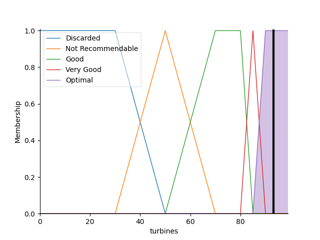
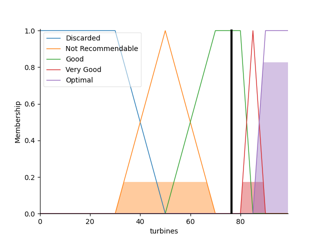
Turbines Fuzzy Inference System V3.5. Density Calculation Added Membership functions readjusted

Changed region(s): [[0.7188, 0.1167, 0.9062, 0.9042], [0.3438, 0.7583, 0.6875, 0.9042]]

diff --git a/Fuzzy_System/membership_functions.py b/Fuzzy_System/membership_functions.py
@@ -8,20 +8,16 @@ import skfuzzy as fuzz
 
 #                                                                INPUTS
 #   Salinity       (0, 40)
-salinity['Low'] = fuzz.trapmf(salinity.universe, [0, 0, 26, 33])
-salinity['Medium'] = fuzz.trapmf(salinity.universe, [26, 33, 34, 35])
-salinity['High'] = fuzz.trapmf(salinity.universe, [34, 35, 40, 40])
-
-salinity.view()
+salinity['Low'] = fuzz.trapmf(salinity.universe, [0, 0, 20, 30])
+salinity['Medium'] = fuzz.trapmf(salinity.universe, [20, 30, 100, 150])
+salinity['High'] = fuzz.trapmf(salinity.universe, [100, 150, 400, 400])
 
 #   Temperature     (-5, 40, 0.1).round(1)
 temperature['Very Low'] = fuzz.trapmf(temperature.universe, [-5, -5, 0, 0])
 temperature['Low'] = fuzz.trapmf(temperature.universe, [-5, 0, 7, 15])
-temperature['Medium'] = fuzz.trapmf(temperature.universe, [7, 15, 23, 27])
-temperature['High'] = fuzz.trimf(temperature.universe, [23, 27, 35])
-temperature['Very High'] = fuzz.trapmf(temperature.universe, [27, 35, 40, 40])
-
-temperature.view()
+temperature['Medium'] = fuzz.trapmf(temperature.universe, [7, 15, 30, 35])
+temperature['High'] = fuzz.trimf(temperature.universe, [30, 35, 37])
+temperature['Very High'] = fuzz.trapmf(temperature.universe, [35, 37, 40, 40])
 
 #   currents     (0, 300)
 currents['Very Low'] = fuzz.trapmf(currents.universe, [0, 0, 50, 100])
@@ -29,23 +25,17 @@ currents['Low'] = fuzz.trapmf(currents.universe, [50, 100, 160, 180])
 currents['Medium'] = fuzz.trimf(currents.universe, [160, 180, 220])
 currents['High'] = fuzz.trapmf(currents.universe, [180, 220, 300, 300])
 
-currents.view()
-
 #   viscosity     (0, 2, 0.01)
 viscosity['Very Low'] = fuzz.trapmf(viscosity.universe, [0, 0.0, 0.4, 0.70])
 viscosity['Low'] = fuzz.trapmf(viscosity.universe, [0.4, 0.7, 0.85, 1.10])
 viscosity['Medium'] = fuzz.trapmf(viscosity.universe, [0.85, 1.10, 1.55, 1.90])
 viscosity['High'] = fuzz.trapmf(viscosity.universe, [1.55, 1.9, 2, 2])
 
-viscosity.view()
-
 #   density     (900, 1100)
 density['Very Low'] = fuzz.trapmf(density.universe, [900, 900, 925, 950])
-density['Low'] = fuzz.trimf(density.universe, [925, 950, 975])
-density['Medium'] = fuzz.trapmf(density.universe, [950, 975, 1000, 1050])
-density['High'] = fuzz.trapmf(density.universe, [1000, 1050, 1100, 1100])
-
-density.view()
+density['Low'] = fuzz.trimf(density.universe, [925, 1000, 1030])
+density['Medium'] = fuzz.trapmf(density.universe, [1000, 1030, 1040, 1050])
+density['High'] = fuzz.trapmf(density.universe, [1040, 1050, 1100, 1100])
 
 #   depth     (0, 8000)
 depth['Very Low'] = fuzz.trapmf(depth.universe, [0, 0, 3, 5])
@@ -53,15 +43,11 @@ depth['Low'] = fuzz.trimf(depth.universe, [3, 5, 10])
 depth['Medium'] = fuzz.trapmf(depth.universe, [5, 10, 500, 1000])
 depth['High'] = fuzz.trapmf(depth.universe, [500, 1000, 8000, 8000])
 
-depth.view()
-
 #   placement depth     (0, 150)
 placement_depth['Very Low'] = fuzz.trapmf(placement_depth.universe, [0, 0, 1, 2])
 placement_depth['Low'] = fuzz.trimf(placement_depth.universe, [1, 2, 5])
 placement_depth['Medium'] = fuzz.trapmf(placement_depth.universe, [2, 5, 10, 20])
 placement_depth['High'] = fuzz.trapmf(placement_depth.universe, [10, 20, 150, 150])
-
-placement_depth.view()
 
 #                                                                     OUTPUTS
 
@@ -71,3 +57,14 @@ turbines['Not Recommendable'] = fuzz.trimf(turbines.universe, [30, 50, 70])
 turbines['Good'] = fuzz.trapmf(turbines.universe, [50, 70, 80, 85])
 turbines['Very Good'] = fuzz.trimf(turbines.universe, [80, 85, 90])
 turbines['Optimal'] = fuzz.trapmf(turbines.universe, [85, 90, 100, 100])
+
+def show_functions():
+    salinity.view()
+    temperature.view()
+    currents.view()
+    viscosity.view()
+    density.view()
+    depth.view()
+    placement_depth.view()
+
+# show_functions()

diff --git a/GUI/gui.py b/GUI/gui.py
@@ -5,6 +5,8 @@ from PIL import ImageTk, Image
 from Turbines_Fuzzy_System.Fuzzy_System import FuzzySystem
 from Turbines_Fuzzy_System.Color_Maps import color_map
 
+from Turbines_Fuzzy_System.GUI import parameter_calculation
+
 '''
 Color Palette:
 Lighter fonts: #585866
@@ -140,8 +142,8 @@ def open_popup_error2(value):
 
 def constraints(input_salinity, input_temperature, input_currents, input_viscosity,
                 input_density, input_depth, input_placement_depth):
-    if not (0 <= float(input_salinity) <= 40):
-        open_popup(str_salinity, 0, 40)
+    if not (0 <= float(input_salinity) <= 400):
+        open_popup(str_salinity, 0, 400)
     elif not (-5 <= float(input_temperature) <= 40):
         open_popup(str_temperature, -5, 40)
     elif not (0 <= float(input_currents) <= 300):
@@ -186,12 +188,17 @@ def map_action():
     # red, green, blue = image_detector.map()
     salinity_value, current_value, temperature_value = color_map.color_map()
 
+    # given the temperature calculate the density
+    density_value = parameter_calculation.calculate_density(temperature_value)
+
     if salinity_value <= -1000:
         open_popup_error2(salinity_value)
     elif current_value <= -1000:
         open_popup_error2(current_value)
     elif temperature_value <= -1000:
         open_popup_error2(temperature_value)
+    elif density_value <= -1000:
+        open_popup_error2(density_value)
 
     # Change salinity value
     textbox_input_salinity.delete(0, 'end')
@@ -204,6 +211,10 @@ def map_action():
     # Change temperature Value
     textbox_input_temperature.delete(0, 'end')
     textbox_input_temperature.insert("end", str(temperature_value))
+
+    # Change density Value
+    textbox_input_density.delete(0, 'end')
+    textbox_input_density.insert("end", str(density_value))
 
 
 #                                              MAIN WINDOW

diff --git a/GUI/parameter_calculation.py b/GUI/parameter_calculation.py
@@ -1,13 +1,17 @@
 # density in kg/L
 # 1028.19 kg/l a los −2 °C, 1028.11 a los 0 °C, 1.027.78 a los 4°C
 def calculate_density(temperature):
-    densidad = -2000
+    density = -2000
 
     if temperature == -2:
-        densidad = 1028.19
+        density = 1028.19
     elif temperature == 0:
-        densidad = 1028.11
+        density = 1028.11
     elif temperature == 4:
-        densidad = 1027.78
+        density = 1027.78
+    elif temperature < 0:
+        density = -0.04*temperature + 1028.11
+    elif temperature > 0:
+        density = -0.165*temperature + 1028.11
 
-    return densidad
+    return round(density, 2)

diff --git a/Fuzzy_System/FuzzyVariable.py b/Fuzzy_System/FuzzyVariable.py
@@ -7,7 +7,7 @@ Definition of the variables which includes:
     - Declaration of the inputs (Background) and outputs (Consequent) for the skfuzzy library
 '''
 
-domain_salinity = np.arange(0, 40)  # gram per litre
+domain_salinity = np.arange(0, 400)  # gram per litre
 domain_temperature = np.arange(-5, 40, 0.1).round(1)  # grades celsius
 domain_currents = np.arange(0, 300)  # cm per second
 domain_viscosity = np.arange(0, 2, 0.01)  # centi-poise (mPa)

diff --git a/Color_Maps/color_map.py b/Color_Maps/color_map.py
@@ -86,6 +86,11 @@ def get_salinity(salinity_red, salinity_green, salinity_blue):
     elif (salinity_red <= 255) & (salinity_green <= 244) & (salinity_blue <= 207):  # 0
         salinity = -1000
 
+    # the scale is nt correct, it shows from 0 to 40 but its from 40 to 0
+    if salinity >= 0:
+        salinity = 40 - salinity
+        salinity = salinity*10
+
     return salinity
 
 # ERRORS:
